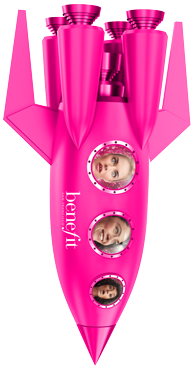
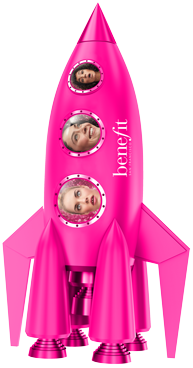
Create background, ground, and missile.

diff --git a/js/states/MenuState.js b/js/states/MenuState.js
@@ -4,18 +4,26 @@ var MenuState = function (game) {
 
 MenuState.prototype = {
 
+  /**
+   * Setup menu display objects.
+   */
   create: function () {
     console.log('createMenuState');
-    this.game.add.plugin(Phaser.Plugin.Debug);
-    this.game.add.plugin(Phaser.Plugin.Inspector);
-    this.game.add.plugin(PhaserSuperStorage.StoragePlugin);
-    this.game.add.plugin(PhaserInput.Plugin);
 
-    this.background = this.game.add.image(0, 0, 'outerspace');
-    this.background.anchor.set(0.5);
-    this.background.scale.setTo(getGameScale());
-    this.background.x = this.game.world.centerX;
-    this.background.y = this.game.world.centerY;
+    this.background = new Background(game);
+
+
+
+    this.ground = new Ground(game);
+
+    this.start = game.add.button(0, 0, 'lift-off', this.startGame);
+    this.start.anchor.set(0.5);
+    this.start.scale.setTo(Utils.getGameScaleX());
+    this.start.x = this.game.world.centerX;
+    this.start.y = this.game.world.centerY;
+
+    // @todo: add title and button text
+
   },
 
   /**
@@ -23,7 +31,7 @@ MenuState.prototype = {
    */
   startGame: function () {
     // @todo: add button to call this function
-    this.game.state.start("Main");
+    this.game.state.start("game");
   },
 
   resize: function() {

diff --git a/index.html b/index.html
@@ -11,7 +11,7 @@
 
         <script type="text/javascript" src="lib/phaser.min.js"></script>
 
-        <script type="text/javascript" src="js/util.js"></script>
+        <script type="text/javascript" src="js/Utils.js"></script>
 
         <script type="text/javascript" src="js/states/BootState.js"></script>
         <script type="text/javascript" src="js/states/PreloadState.js"></script>
@@ -20,6 +20,9 @@
         <script type="text/javascript" src="js/states/ResultsState.js"></script>
 
         <script type="text/javascript" src="js/objects/Asteroid.js"></script>
+        <script type="text/javascript" src="js/objects/Background.js"></script>
+        <script type="text/javascript" src="js/objects/Ground.js"></script>
+        <script type="text/javascript" src="js/objects/Missile.js"></script>
 
         <script type="text/javascript" src="js/states/stateManager.js"></script>
 

diff --git a/js/states/GameState.js b/js/states/GameState.js
@@ -36,22 +36,22 @@ GameState.prototype = {
    * Generates the display objects and data needed for the current state.
    */
   create: function () {
-    game.add.plugin(Phaser.Plugin.Debug);
-    //game.add.plugin(Phaser.Plugin.Inspector);
-    game.add.plugin(PhaserSuperStorage.StoragePlugin);
-    game.add.plugin(PhaserInput.Plugin);
-
 
 
     // @todo: do gameState create stuff here.
 
     this.generateQuestions();
 
+    this.background = new Background(game);
+
+    this.ground = new Ground(game);
+
     this.asteroids.push(new Asteroid(game, 0, 0));
     this.asteroids.push(new Asteroid(game, 50, 50));
     this.asteroids.push(new Asteroid(game, 100, 100));
     this.asteroids.push(new Asteroid(game, 200, 200));
 
+    this.missile = new Missile(game);
 
 
 

diff --git a/js/objects/Missile.js b/js/objects/Missile.js
@@ -1,0 +1,26 @@
+var Missile = function (game) {
+  Phaser.Sprite.call(this, game, 0, 0, "rocket-small");
+
+  game.add.existing(this);
+
+  this.anchor.x = 0.5;
+  this.anchor.y = 1;
+  this.scale.setTo(Utils.getGameScaleX());
+  this.x = this.game.world.centerX;
+  this.y = this.game.world.height - (this.height * .35);
+
+  this.scale.x = this.scale.y = Utils.getGameScaleX();
+
+};
+
+Missile.prototype = Object.create(Phaser.Sprite.prototype);
+Missile.prototype.constructor = Missile;
+
+Missile.prototype.update = function () {
+
+};
+
+Missile.prototype.resize = function () {
+  // @todo: update position when screen is resized
+};
+

diff --git a/js/objects/Background.js b/js/objects/Background.js
@@ -1,0 +1,22 @@
+var Background = function (game) {
+  Phaser.Sprite.call(this, game, 0, 0, "outerspace");
+
+  game.add.existing(this);
+
+  this.anchor.set(0.5);
+  this.scale.setTo(Utils.getGameScaleY());
+  this.x = this.game.world.centerX;
+  this.y = this.game.world.centerY;
+};
+
+Background.prototype = Object.create(Phaser.Sprite.prototype);
+Background.prototype.constructor = Background;
+
+Background.prototype.update = function () {
+  // @todo: add particle effects or something.
+};
+
+Background.prototype.resize = function () {
+  // @todo: update position/scale when screen is resized
+};
+

diff --git a/js/Utils.js b/js/Utils.js
@@ -1,0 +1,23 @@
+
+function Utils() {
+
+}
+
+// @todo: Make this a property on game?
+Utils.getGameScaleX = function () {
+  return game.world.width / gameConfig.baseWidth;
+};
+
+Utils.getGameScaleY = function () {
+  return game.world.height / gameConfig.baseHeight;
+};
+
+/*Utils.getGameScaleFull = function () {
+  var scaleX = Utils.getGameScaleX();
+  var scaleY = Utils.getGameScaleY();
+  if (scaleX < scaleY) {
+    return scaleX;
+  }
+
+  return scaleY;
+};*/

diff --git a/js/objects/Ground.js b/js/objects/Ground.js
@@ -1,0 +1,18 @@
+var Ground = function (game) {
+  Phaser.Image.call(this, game, 0, 0, "desert");
+
+  game.add.existing(this);
+
+  this.anchor.y = 1;
+  this.scale.setTo(Utils.getGameScaleX());
+  this.y = this.game.world.height + (this.height * .2);
+};
+
+Ground.prototype = Object.create(Phaser.Image.prototype);
+Ground.prototype.constructor = Ground;
+
+
+
+Ground.prototype.resize = function () {
+  // @todo: update position when screen is resized
+};

diff --git a/js/states/PreloadState.js b/js/states/PreloadState.js
@@ -41,6 +41,7 @@ PreloadState.prototype = {
     game.load.image('kitty', 'assets/img/kitty.png');
     game.load.image('laser', 'assets/img/laser.png');
     game.load.image('lift-off', 'assets/img/lift-off.png');
+    game.load.image('lift-off-sm', 'assets/img/lift-off-sm.png');
     game.load.image('model-1', 'assets/img/model-1.gif');
     game.load.image('model-2', 'assets/img/model-2.gif');
     game.load.image('model-3', 'assets/img/model-3.gif');

diff --git a/js/states/BootState.js b/js/states/BootState.js
@@ -16,6 +16,11 @@ BootState.prototype = {
     //Initial GameSystem (Arcade, P2, Ninja)
     game.physics.startSystem(Phaser.Physics.ARCADE);
 
+    //game.add.plugin(Phaser.Plugin.Debug);
+    //game.add.plugin(Phaser.Plugin.Inspector);
+    game.add.plugin(PhaserSuperStorage.StoragePlugin);
+    game.add.plugin(PhaserInput.Plugin);
+
     //Initial Load State
     game.state.start('preload');
   }

diff --git a/js/states/stateManager.js b/js/states/stateManager.js
@@ -4,7 +4,8 @@ var gameConfig = {
   //width: window.innerWidth * window.devicePixelRatio,
   height: '100%',
   //height: window.innerHeight * window.devicePixelRatio,
-  baseWidth: 1000,
+  baseWidth: 1280,
+  baseHeight: 800,
   renderer: Phaser.AUTO,
   antialias: true,
   multiTexture: true,
